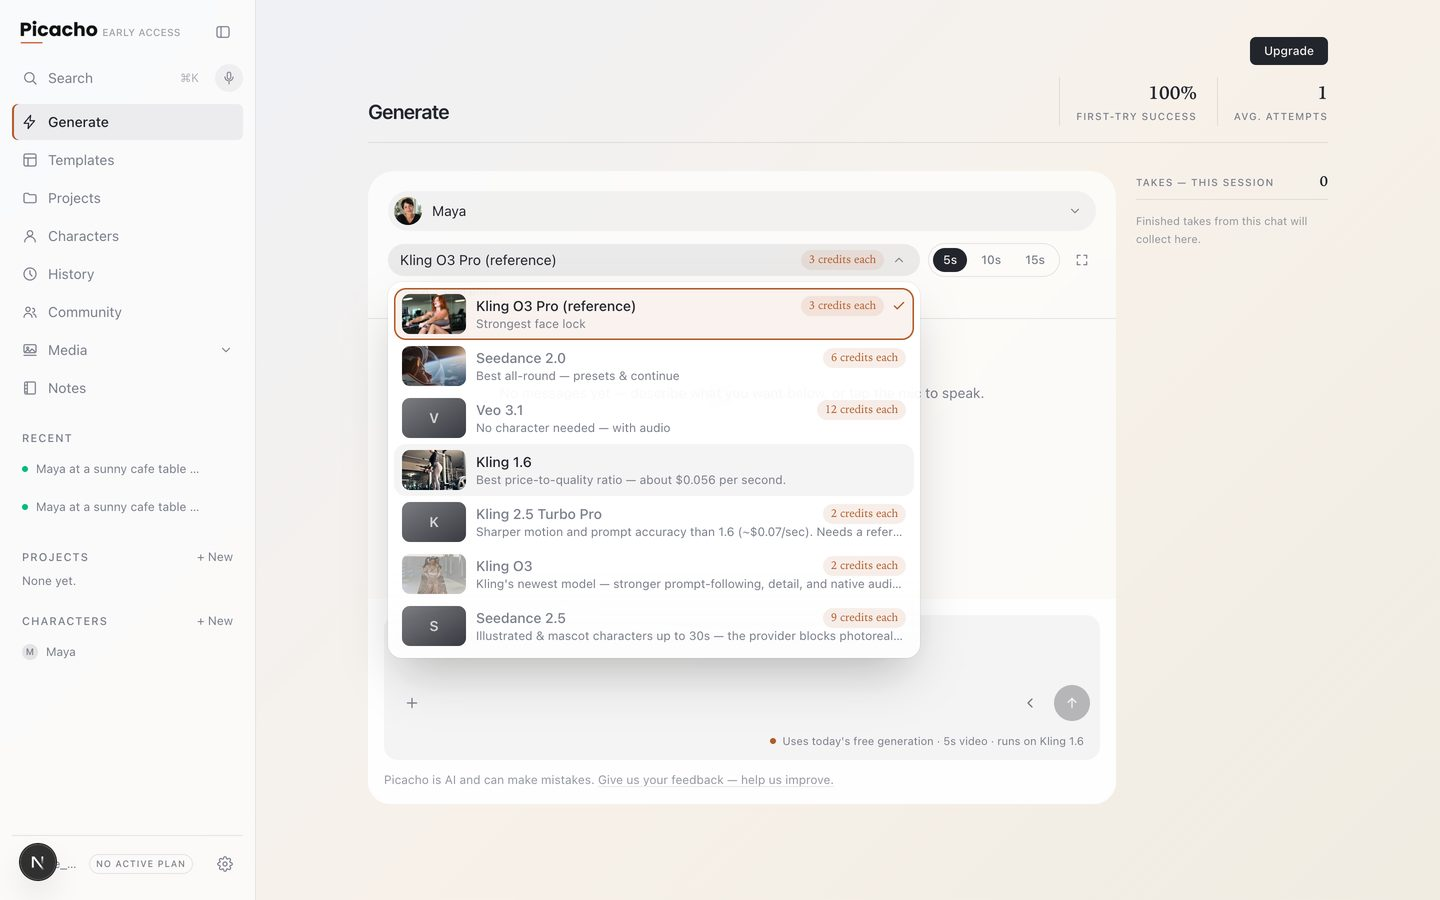
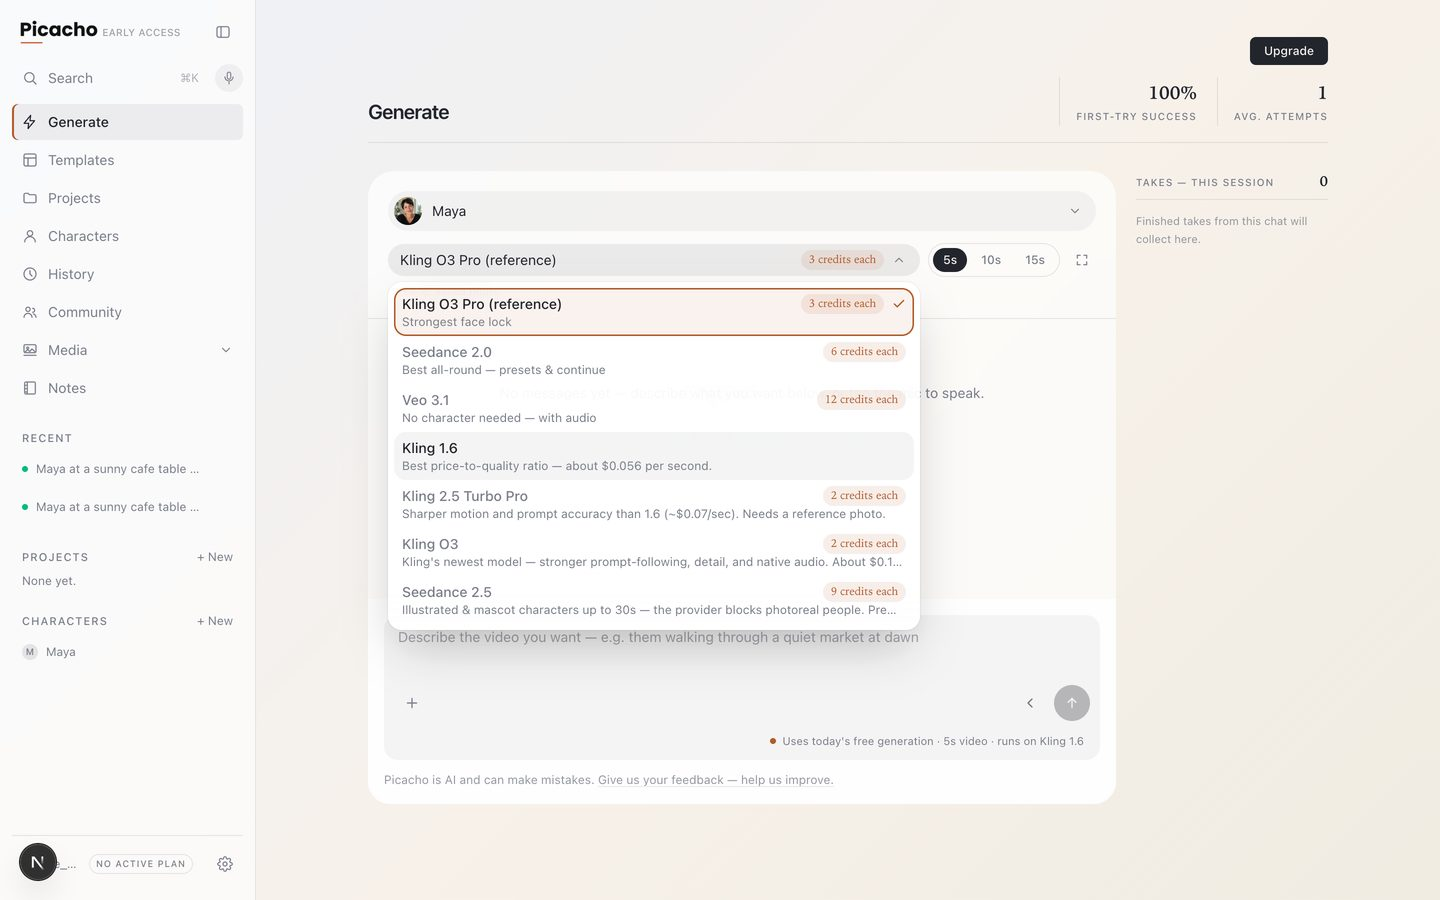
The model cards lose their thumbnails a few hours after gaining them (operator: 'remove the images on the ai models because its irrelevant' — and he's right: a still tells you nothing about which ENGINE to pick; the one-line jobs and prices do the work). MODEL_STILL_IDS and public/models/ deleted, t

diff --git a/src/lib/changelog.ts b/src/lib/changelog.ts
@@ -41,7 +41,7 @@ export const RELEASES: Release[] = [
       "A generated character photo can no longer be lost to the unpressed Save button (the operator lost a whole Perspective set to it — recovered): on an existing character, every AI-generated reference photo — including each Perspective shot as it lands — now saves itself to the character the moment it exists, since a photo that cost an allowance must never depend on remembering a button. And for everything that still legitimately needs Save (renames, trait edits, removals, fresh uploads), leaving the page now asks first instead of silently discarding the work.",
       "Two phone-app paper cuts, both reported with screenshots and both gone: pages no longer open scrolled to wherever the LAST page was (the app's scroller kept its position across navigations — every route now arrives at the top), and the ugly gray play-button placeholder Android paints over videos that haven't loaded yet can never appear again — an unloaded video tile now shows the app's own quiet dark ground with a soft play disc, and the real footage fades in the moment its first frame is ready. The same treatment covers the expanded views — the full-screen community player, the media lightbox, and History — where an opening video now shows a quiet loading ring instead of that placeholder.",
       "The presets row learned categories — Camera and Light & looks tabs untangle the nineteen cinema presets, and behind the curtain eighteen NEW drafted blocks landed dormant: eight lighting presets (candlelight, window light, Rembrandt, blue hour, hard sun, ring light, backlit, studio softbox) and ten FX presets (explosion walk, smoke reveal, lightning, glitch teleport, rain burst, fire aura, levitation, confetti, time freeze, product reveal — face-morph effects excluded by design on a platform whose promise is the face). Every draft is invisible in the composer, refused server-side, and exempt from nothing: the moment each earns its validation render it flips visible with the proof clip as its chip. Approved with fal balance low — built now, proven later. And presets learned to STACK: one pick per category rides together — crash zoom plus golden hour is one send — with the blocks compiling in fixed craft order (camera, then light, then FX) no matter the tapping order.",
-      "The composer's two pickers grew up (operator: seeing them daily 'feels unfinished and doesn't fit the work we've done'): the character dropdown became the casting sheet — the cast wall in miniature, portrait cards with each character's real photo, name and lock meter, ochre ring and check for selection, a dashed New-character card and a Manage-cast link, same one-tap multi-select semantics as before — and the character pill now wears the character's actual face instead of an initial. The model menu became cards: each model wearing a REAL still from its own production renders (four exist today; models without one wear a quiet monogram tile, never a borrowed clip), its one-line job, price chip and check. The course's two menu screenshots were reshot the same hour.",
+      "The composer's two pickers grew up (operator: seeing them daily 'feels unfinished and doesn't fit the work we've done'): the character dropdown became the casting sheet — the cast wall in miniature, portrait cards with each character's real photo, name and lock meter, ochre ring and check for selection, a dashed New-character card and a Manage-cast link, same one-tap multi-select semantics as before — and the character pill now wears the character's actual face instead of an initial. The model menu became cleaner cards — one-line job, price chip, ochre-ringed selection (a round of model thumbnails was tried and removed the same day: the operator judged images irrelevant for picking an engine, and he was right). The course's two menu screenshots were reshot the same hour.",
       "Google Play: the organization verification cleared ('account in good standing') — the production release submitted Aug 21 is now genuinely in Google's review queue, with the launch playbook armed for the moment it flips live.",
     ],
   },

diff --git a/src/components/generate-form.tsx b/src/components/generate-form.tsx
@@ -1242,12 +1242,6 @@ function PendingAttachmentChip({
 // forwarded here from the sidebar's global voice command), which requires
 // useSearchParams — that hook needs a Suspense boundary around it, so the
 // actual logic lives in GenerateFormInner and this just wraps it.
-// Which video models have a REAL render still checked in as their card
-// thumbnail (public/models/<id>.jpg — each pulled from that model's own
-// production output). Models absent here render a monogram tile in the
-// picker; add the file + the id when a real render exists.
-const MODEL_STILL_IDS = new Set(["seedance-2", "kling-o3-pro", "kling-o3", "kling"]);
-
 type CharacterOption = {
   id: string;
   name: string;
@@ -4462,18 +4456,6 @@ function GenerateFormInner({
                       : "text-atelier-muted hover:bg-atelier-ink/5 hover:text-atelier-ink",
                   )}
                 >
-                  {/* Casting-sheet model cards (2026-08-28): the still is a
-                      REAL render from that model (public/models/<id>.jpg,
-                      pulled from production history) — models without one
-                      yet wear a quiet monogram tile, never a borrowed clip. */}
-                  {MODEL_STILL_IDS.has(m.id) ? (
-                    // eslint-disable-next-line @next/next/no-img-element
-                    <img src={`/models/${m.id}.jpg`} alt="" loading="lazy" className="h-10 w-16 flex-shrink-0 rounded-[8px] bg-atelier-stage object-cover" />
-                  ) : (
-                    <span className="flex h-10 w-16 flex-shrink-0 items-center justify-center rounded-[8px] bg-gradient-to-br from-atelier-ink/60 to-atelier-ink/90 text-sm font-semibold text-atelier-paper/80">
-                      {m.name?.[0] ?? "?"}
-                    </span>
-                  )}
                   <span className="min-w-0 flex-1">
                     <span className="flex items-center gap-2 text-sm font-medium">
                       <span className="min-w-0 flex-1 truncate">{m.name}</span>
